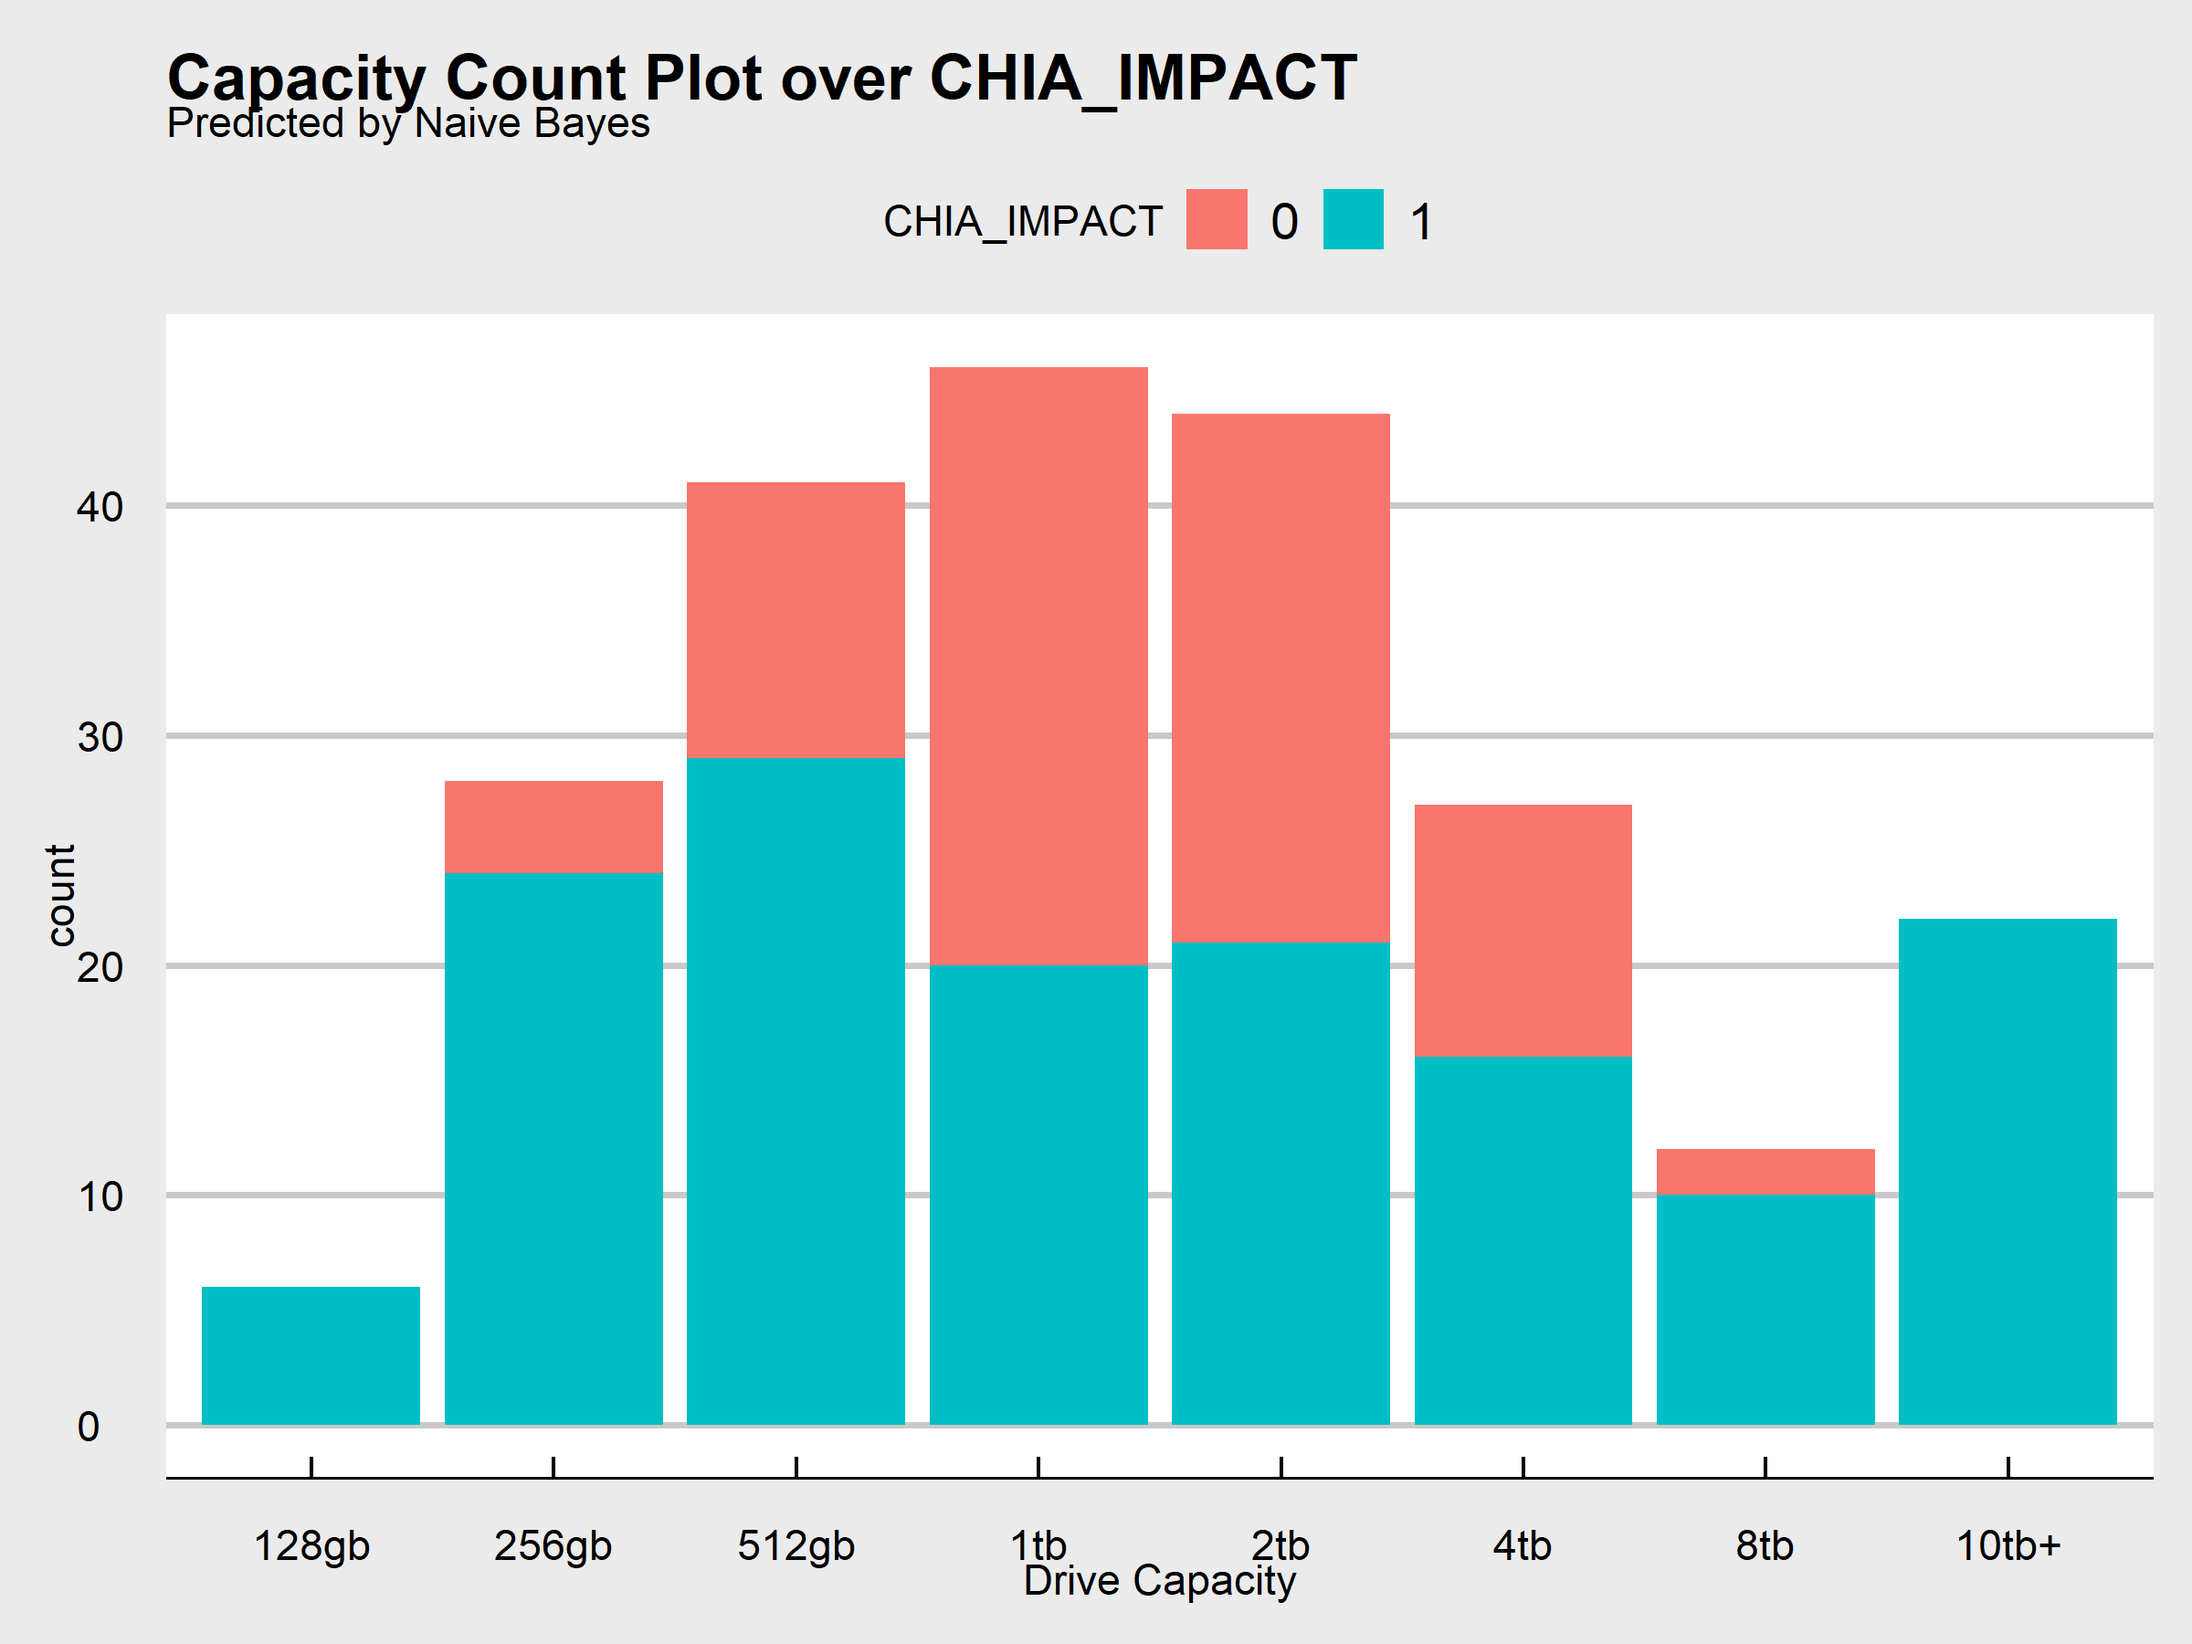
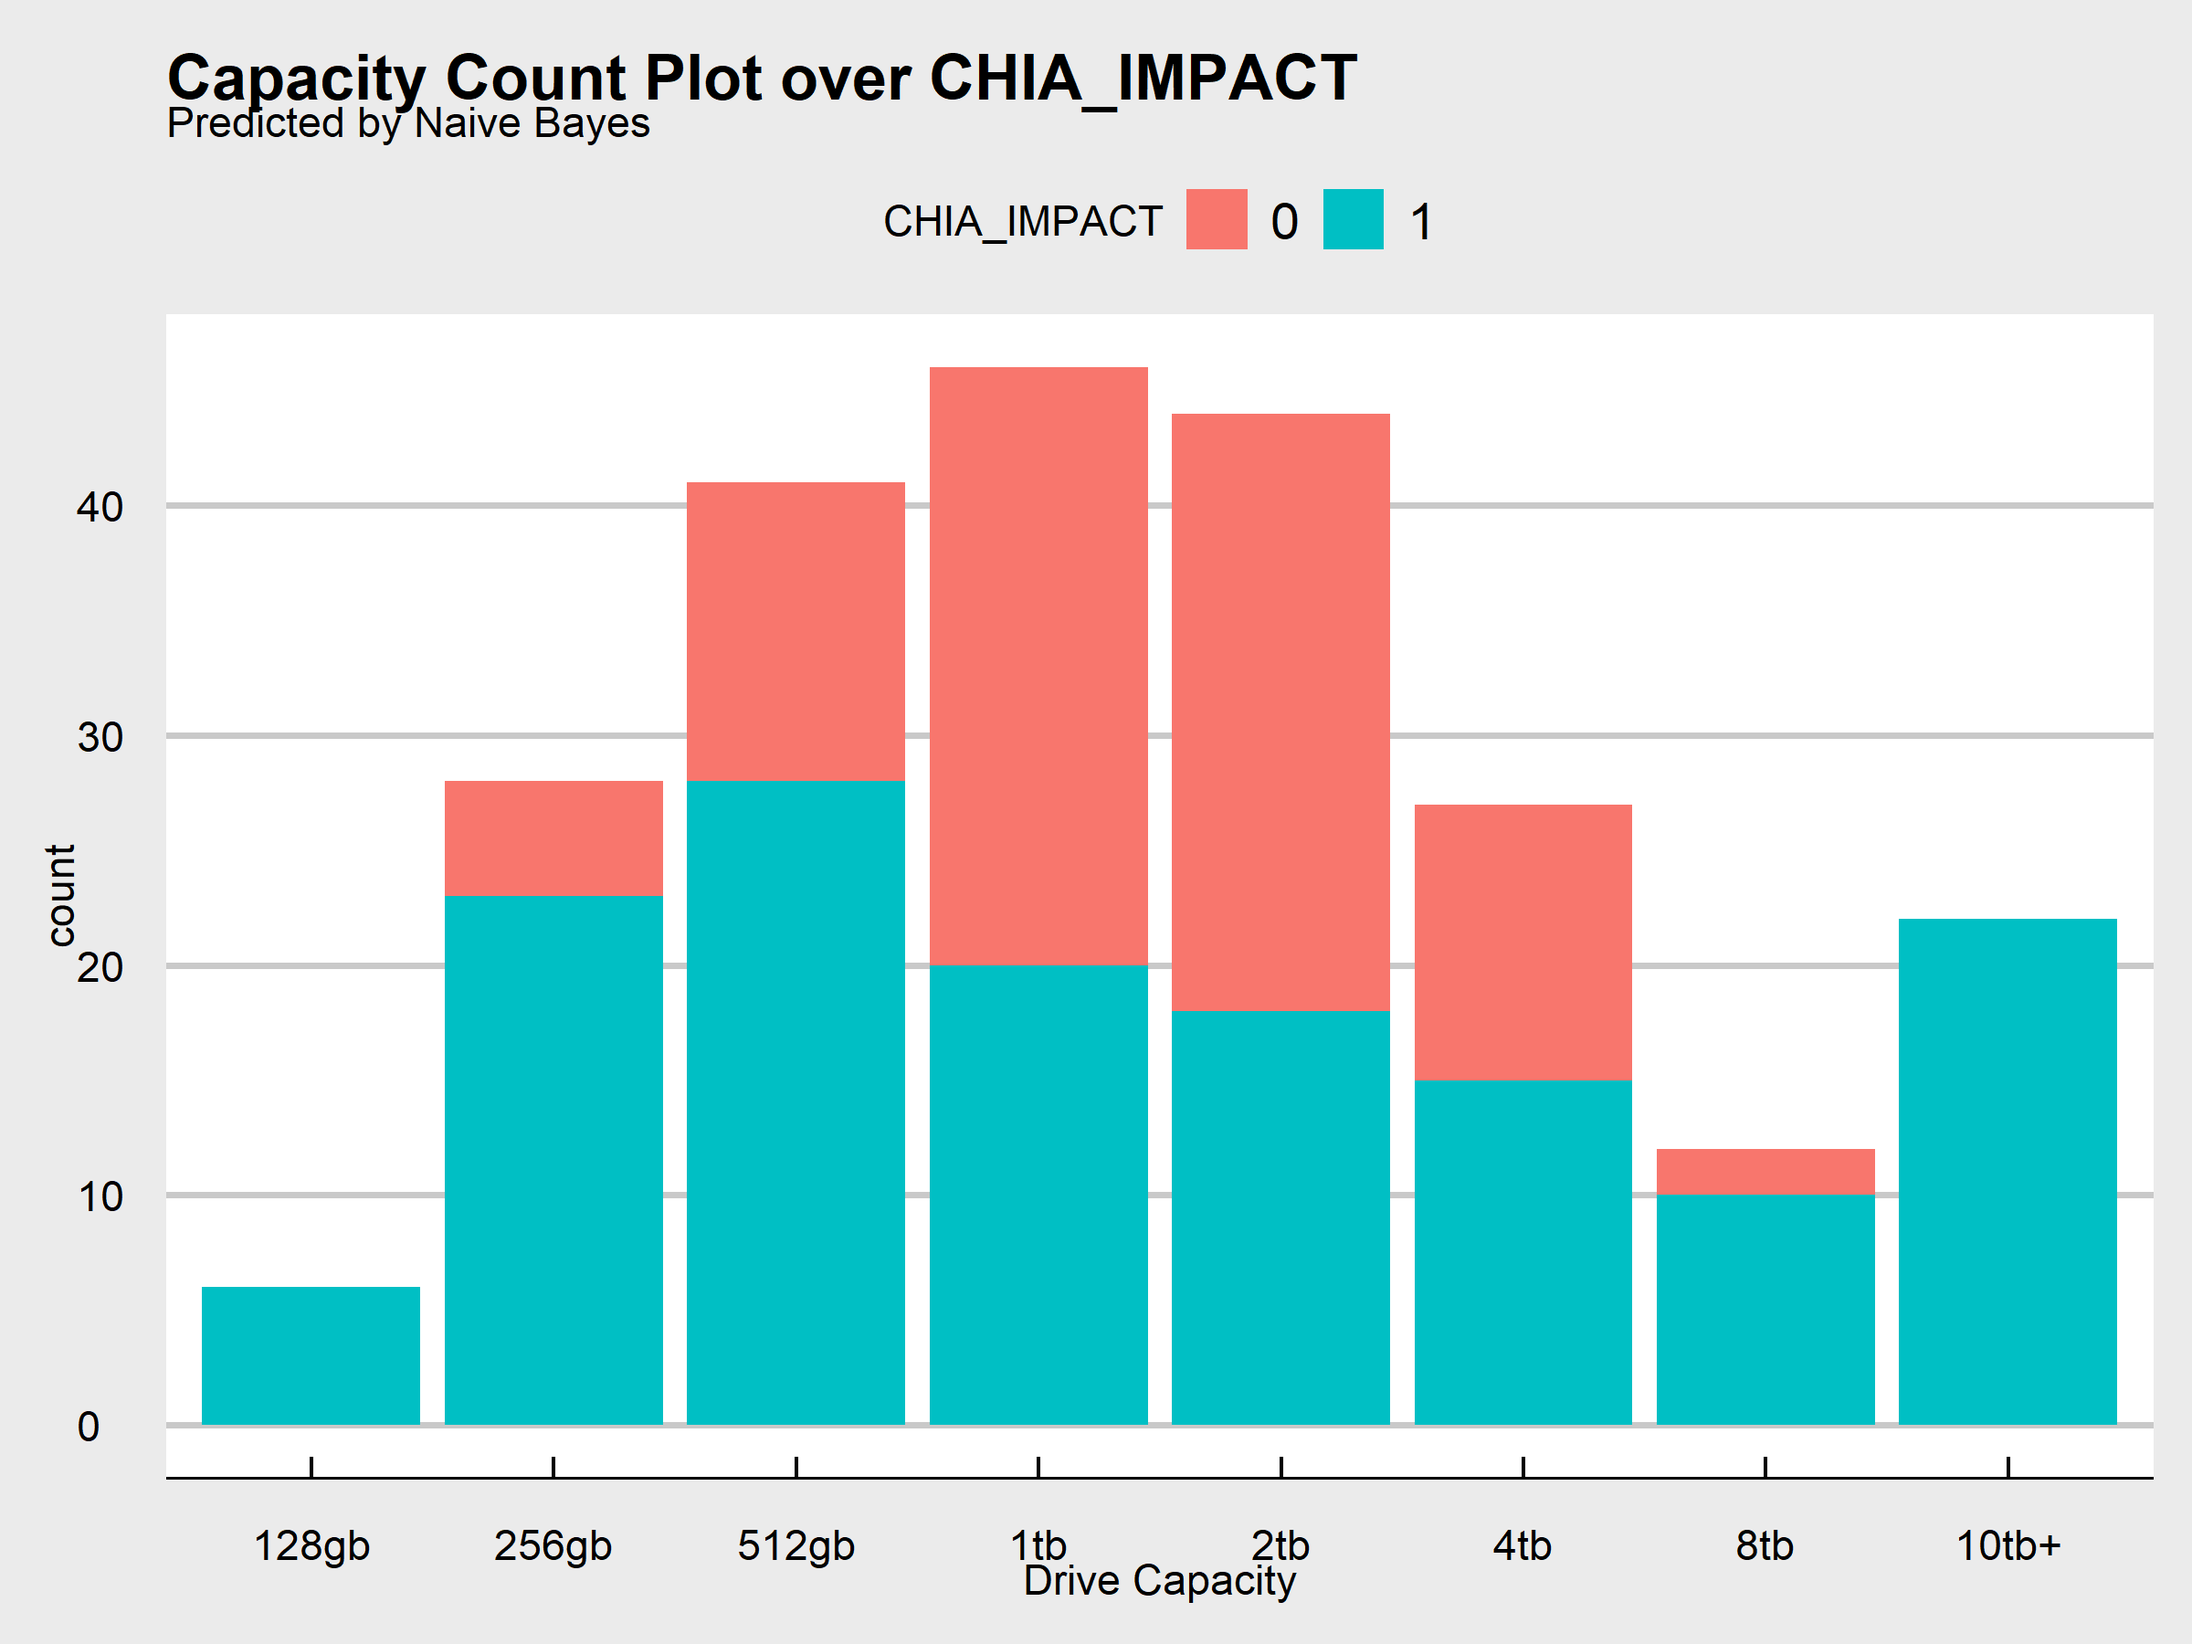
fix: wrong data used & add key feat

Changed region(s): [[0.5312, 0.56, 0.75, 0.6844], [0.3125, 0.4356, 0.4062, 0.4978], [0.1875, 0.5289, 0.3125, 0.56]]

diff --git a/ANLY501/8_naive_bayes.html b/ANLY501/8_naive_bayes.html
@@ -95,7 +95,12 @@
                     <figurecaption>Figure: confusion matrix of naive bayes model on YouTube comments(0 as Neutral, 1 as Negative, 2 as Positive, acc=0.89)
                     </figurecaption>
                 </figure>
-                <p>From the confusion matrix, this model has a tendency to label positive comments as neutral, but it can distinguish positive and negative well. </p>
+                <p>From the confusion matrix, this model has a tendency to label positive comments as neutral, but it can distinguish positive and negative well. The top 20 key features of this model are shown below.</p>
+                <figure style="width:70%">
+                    <img class="center-fig" style="width:70%" src="picture/naive_bayes/text_feat_impt.png">
+                    <figurecaption>Figure: top 20 important features of naive bayes model on YouTube comments
+                    </figurecaption>
+                </figure>
                 <p>This model is used to predict the label of test set. As a result, 2583 comments are labeled as Neutral(0), 469 comments are labeled as Negative(1), and only 11 comments are labeled Positive(2). Then, all comments (both training and test set) are separated based on the published month. The visualization of comments' counts is shown below.</p>
                 <figure style="width:70%">
                     <img class="center-fig" src="picture/naive_bayes/count.png">
@@ -155,13 +160,19 @@
                 <p>First, a naive bayes model is then trained by the training set, the confusion matrix is shown below.</p>
                 <figure style="width:90%">
                     <img class="center-fig" style="width:60%" src="picture/naive_bayes/nb_train.png">
-                    <figurecaption>Figure: confusion matrix of naive bayes model on drives(0 as no impact, 1 as impact, acc=0.967) </figurecaption>
+                    <figurecaption>Figure: confusion matrix of naive bayes model on drives(0 as no impact, 1 as impact, acc=0.80) </figurecaption>
+                </figure>
+                <p>The key features of this model are shown below.</p>
+                <figure style="width:70%">
+                    <img class="center-fig" style="width:70%" src="picture/naive_bayes/record_feat_impt.png">
+                    <figurecaption>Figure: top 20 important features of naive bayes model on Drive&Chia
+                    </figurecaption>
                 </figure>
 
-                <p>The accuracy of model is 96.7%, which shows a great classification power of CHIA IMPACT. Then the model is used on the test set to predict whether a drive was impacted by Chia. As a result, 175 drives in test set are labeled as 1 (IMPACT) and 81 drives are labeled as 0 (NO IMPACT). </p>
+                <p>The accuracy of model is 80.0%, which shows a great classification power of CHIA IMPACT. Then the model is used on the test set to predict whether a drive was impacted by Chia. As a result, 142 drives in test set are labeled as 1 (IMPACT) and 84 drives are labeled as 0 (NO IMPACT). </p>
                 <p>Next, some factors of drives are visualized according to the label CHIA_IMPACT. </p>
                 <p>First is the type of drives, there are 2 main types: HDD(hard disk drive) and SSD(solid state drive). HDD has two disk sizes as subtypes: 2.5 inches(as 25) and 3.5 inches(as 35). SSD has three socket sizes as subtypes: SATA(as sata), m.2 SATA(as m2), and m.2 NVME(as nvme). </p>
-                <p>To check whether the impacted drives have different distribution on each type, two chisq.test are performed. The results show that the distribution does vary by types.</p>
+                <p>To check whether the impacted drives have different distribution on each type, two chisq.test are performed. The results show that the distribution does vary by subtypes.</p>
                 <figure style="width:70%">
                     <img class="center-fig" src="picture/naive_bayes/test_type.png">
                     <figurecaption>Figure: chisq.test between drive type and CHIA IMPACT</figurecaption>
@@ -180,7 +191,7 @@
                     <img class="center-fig" src="picture/naive_bayes/nb_drive_brand.png">
                     <figurecaption>Figure: relation between drive brand and CHIA IMPACT</figurecaption>
                 </figure>
-                <p>When coming to the brand of drives, the plot shows that drives are impacted by Chia no matter the brand. But there are still some small different in the distribution, for example, all Crucial SSD, WD_BLACK HDD are impacted by Chia, while none of WD_BLACK SSD are impacted by Chia.</p>
+                <p>When coming to the brand of drives, the plot shows that drives are impacted by Chia no matter the brand.</p>
                 <figure style="width:70%">
                     <img class="center-fig" src="picture/naive_bayes/nb_drive_price.png">
                     <figurecaption>Figure: relation between drive price and CHIA IMPACT</figurecaption>
@@ -197,7 +208,7 @@
             <section id="chia-summary">
                 <p>In this section, naive bayes model is used to predict whether the price of drive is impacted by Chia coin. From the visualization and analysis above, the conclusion is listed below:</p>
                 <p>1. Around <b>2/3</b> drives are impacted by Chia. Their prices spiked during April~August in 2021. </p>
-                <p>2. All types of drives are somehow impacted by Chia, especially the SATA SSD and 3.5 inches HDD. Comparing to SSD, more HDD are affected. </p>
+                <p>2. All types of drives are somehow impacted by Chia, especially the SATA SSD and 3.5 inches HDD. </p>
                 <p>3. Drives are impacted no matter which manufacturer sells them. But some certain brands have more drives that been affected.</p>
                 <p>4. Average price of the impacted drives is smaller than not impacted ones.</p>
                 <p>5. Drives with small capacity(128~256gb) and very large capacity(8tb, 10tb+) are mostly impacted by Chia.</p>
